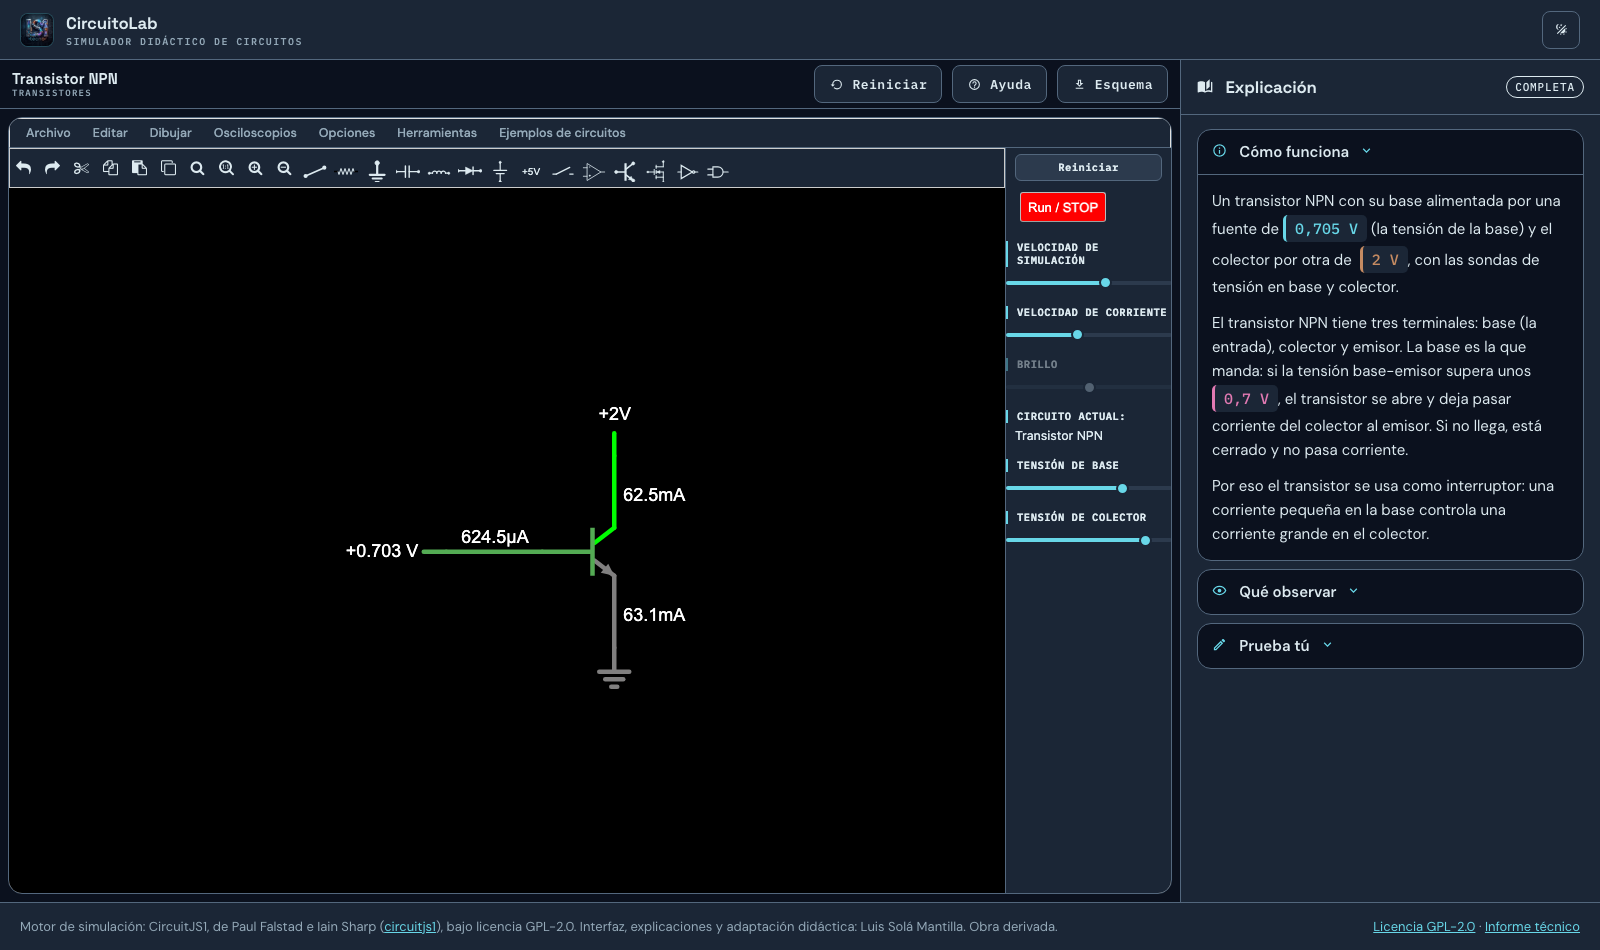
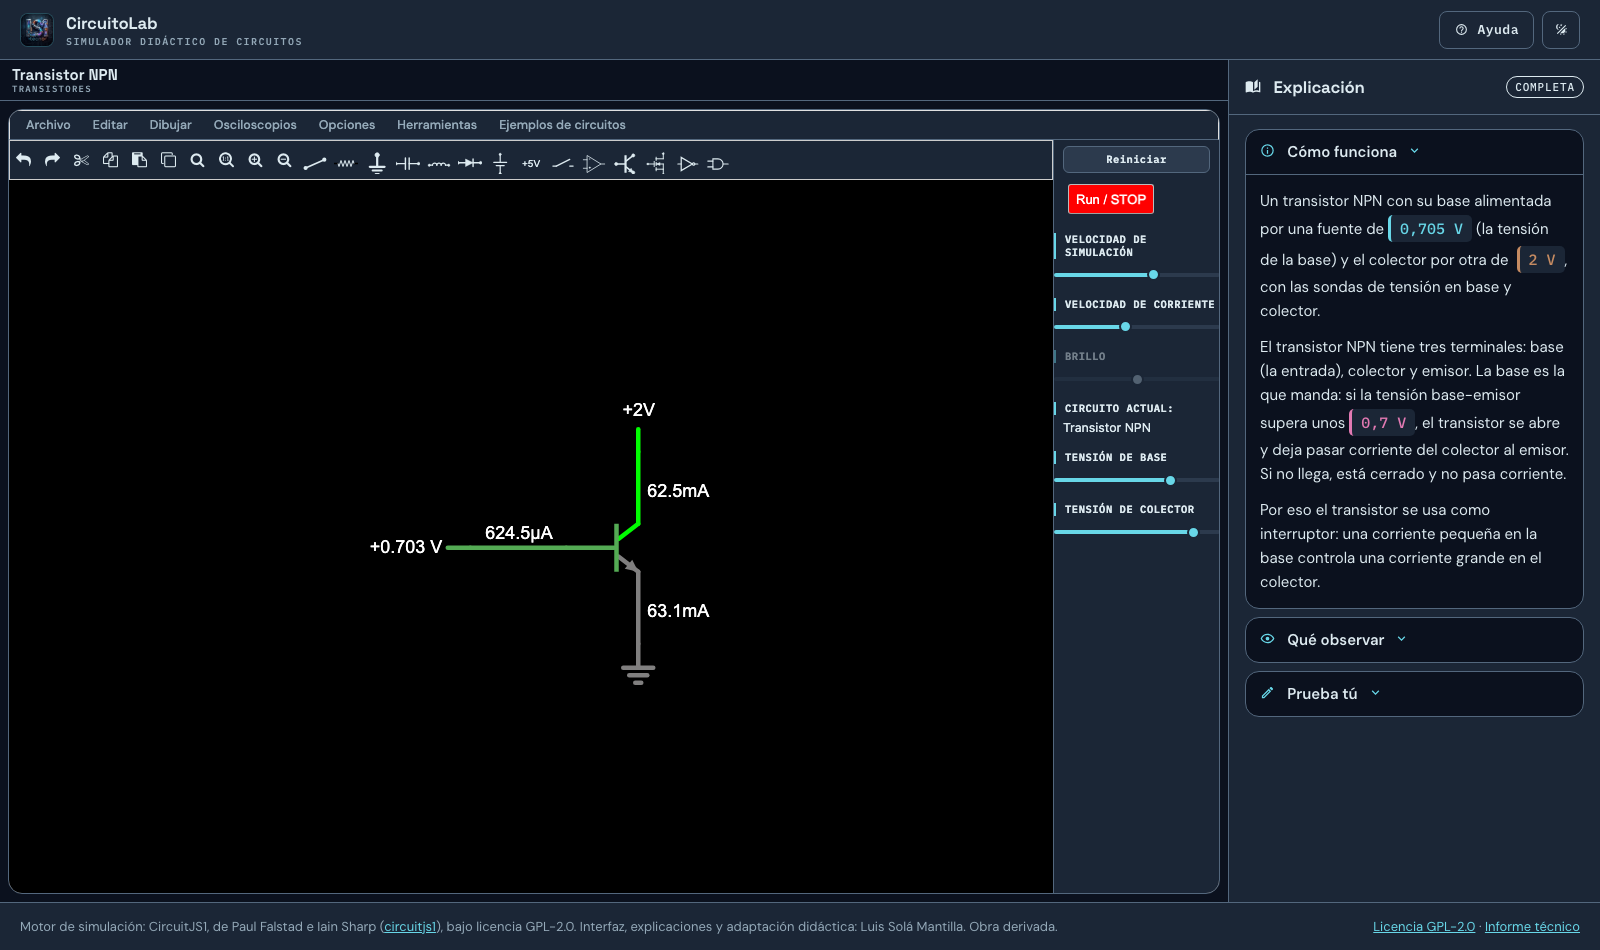
feat(ui): cabecera simplificada y panel de explicacion mas estrecho
- Fuera los botones Reiniciar y Esquema de la barra del simulador.
- Ayuda pasa a la cabecera, a la izquierda del boton de tema.
- El panel derecho baja de 420 a 372 px (322 en pantallas medianas): el
  simulador gana 48 px de ancho.
- En movil el boton de ayuda se queda con el icono y se oculta el subtitulo,
  que desbordaba la cabecera a 390 px.

Changed region(s): [[0.0, 0.0611, 0.9688, 0.9463], [0.2188, 0.4274, 0.4375, 0.7326], [0.9062, 0.0305, 0.9375, 0.0611]]

diff --git a/index.html b/index.html
@@ -28,6 +28,10 @@
     </div>
 
     <div class="cabecera__acciones">
+      <button class="btn" id="btn-ayuda" type="button" aria-expanded="false" aria-controls="ayuda-panel" title="Cómo se usa el simulador">
+        <span id="icono-ayuda" aria-hidden="true"></span>
+        <span class="btn__texto">Ayuda</span>
+      </button>
       <button class="btn btn-icon" id="btn-tema" type="button" aria-label="Cambiar a modo claro" title="Cambiar tema">
         <span id="icono-tema" aria-hidden="true"></span>
       </button>
@@ -44,18 +48,6 @@
           <strong id="titulo-circuito">Circuito</strong>
           <span class="kicker" id="subtitulo-circuito">Elige un circuito en «Ejemplos de circuitos»</span>
         </div>
-        <button class="btn" id="btn-reiniciar" type="button" title="Volver a empezar el circuito">
-          <span id="icono-reiniciar" aria-hidden="true"></span>
-          <span>Reiniciar</span>
-        </button>
-        <button class="btn" id="btn-ayuda" type="button" aria-expanded="false" aria-controls="ayuda-panel" title="Cómo se usa el simulador">
-          <span id="icono-ayuda" aria-hidden="true"></span>
-          <span>Ayuda</span>
-        </button>
-        <button class="btn" id="btn-descargar" type="button" title="Descargar el esquema de este circuito">
-          <span id="icono-descargar" aria-hidden="true"></span>
-          <span>Esquema</span>
-        </button>
       </div>
       <div class="simulador__marco">
         <div class="simulador__lienzo">

diff --git a/assets/css/app.css b/assets/css/app.css
@@ -66,7 +66,7 @@
 .cuerpo {
   display: grid;
   /* sin galeria: el simulador se lleva todo el ancho que deja el panel */
-  grid-template-columns: minmax(0, 1fr) 420px;
+  grid-template-columns: minmax(0, 1fr) 372px;
   min-height: 0;
   overflow: hidden;
 }
@@ -346,7 +346,21 @@
 
 /* ---------------------------------------------------------------- responsive */
 @media (max-width: 1400px) {
-  .cuerpo { grid-template-columns: minmax(0, 1fr) 360px; }
+  .cuerpo { grid-template-columns: minmax(0, 1fr) 322px; }
+
+/* En pantallas estrechas el botón de ayuda se queda solo con el icono: con
+   texto desbordaba la cabecera. */
+@media (max-width: 640px) {
+  .cabecera__acciones .btn__texto { display: none; }
+  .cabecera__acciones .btn { padding: 0 8px; }
+  /* la cabecera se pasaba 10 px a 390: se oculta el subtitulo y se deja
+     encoger el bloque de la marca */
+  .cabecera { padding-left: 10px; padding-right: 10px; gap: 8px; }
+  .cabecera__marca { min-width: 0; }
+  .cabecera__titulo { min-width: 0; }
+  .cabecera__titulo .kicker { display: none; }
+  .cabecera__acciones { flex: none; }
+}
 }
 
 @media (max-width: 1180px) {

diff --git a/assets/js/app.js b/assets/js/app.js
@@ -809,8 +809,6 @@ function initAyuda() {
 /* ---------------------------------------------------------------- iconos */
 function initIconos() {
   const mapa = {
-    '#icono-reiniciar': 'mdi:restore',
-    '#icono-descargar': 'mdi:download-outline',
     '#icono-cargando': 'mdi:electric-switch',
     '#icono-panel': 'mdi:book-open-page-variant',
     '#icono-pendiente': 'mdi:clock-outline',
